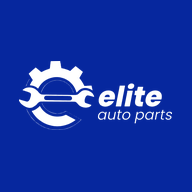
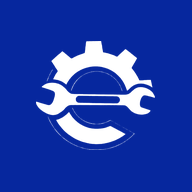
Nouvelle icône : emblème Elite Auto Parts (onglet, écran d'accueil, iPhone)
Claude-Session: https://claude.ai/code/session_0122zvvD7hv9w9Bs6XHXHh2U

Changed region(s): [[0.0938, 0.1875, 0.9062, 0.7812]]

diff --git a/index.html b/index.html
@@ -1,6 +1,6 @@
 <!doctype html><html lang="fr"><head><meta charset="utf-8">
 <meta name="viewport" content="width=device-width,initial-scale=1,viewport-fit=cover">
-<link rel="manifest" href="manifest.webmanifest"><link rel="icon" href="icon-192.png"><link rel="apple-touch-icon" href="icon-192.png">
+<link rel="manifest" href="manifest.webmanifest"><link rel="icon" href="favicon.ico" sizes="any"><link rel="icon" type="image/png" sizes="32x32" href="favicon-32.png"><link rel="icon" type="image/png" sizes="64x64" href="favicon-64.png"><link rel="apple-touch-icon" href="apple-touch-icon.png">
 <meta name="apple-mobile-web-app-capable" content="yes"><meta name="mobile-web-app-capable" content="yes">
 <style>:root{padding-top:env(safe-area-inset-top,0px);padding-bottom:env(safe-area-inset-bottom,0px)}body{margin:0}[hidden]{display:none!important}</style>
 <script>window.__PWA__=true</script></head><body>

diff --git a/sw.js b/sw.js
@@ -1,6 +1,6 @@
 // Service worker : l'app s'ouvre sans internet
-const CACHE='elite-ventes-v2';
-const CORE=['./','index.html','manifest.webmanifest','icon-192.png','icon-512.png'];
+const CACHE='elite-ventes-v3';
+const CORE=['./','index.html','manifest.webmanifest','icon-192.png','icon-512.png','favicon.ico','favicon-32.png','apple-touch-icon.png'];
 self.addEventListener('install',e=>{e.waitUntil(caches.open(CACHE).then(c=>c.addAll(CORE)).then(()=>self.skipWaiting()))});
 self.addEventListener('activate',e=>{e.waitUntil(caches.keys().then(ks=>Promise.all(ks.filter(k=>k!==CACHE).map(k=>caches.delete(k)))).then(()=>self.clients.claim()))});
 self.addEventListener('fetch',e=>{
